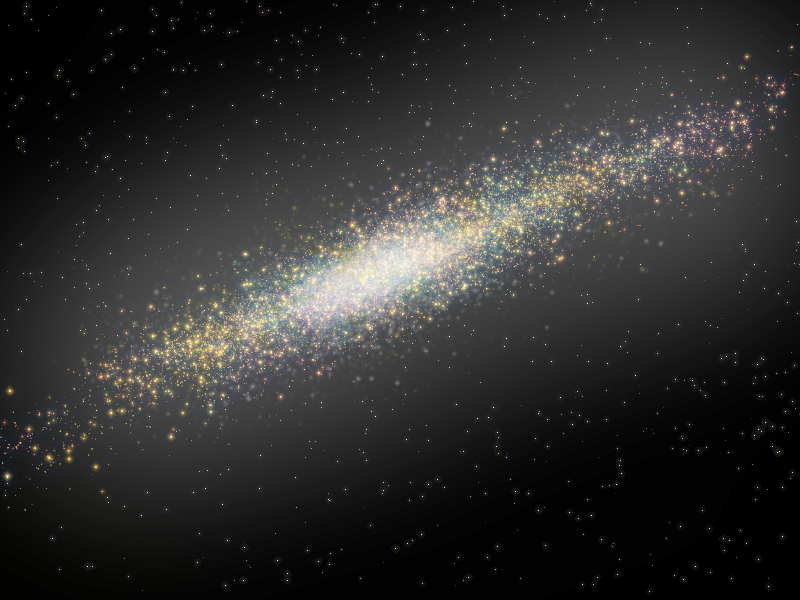
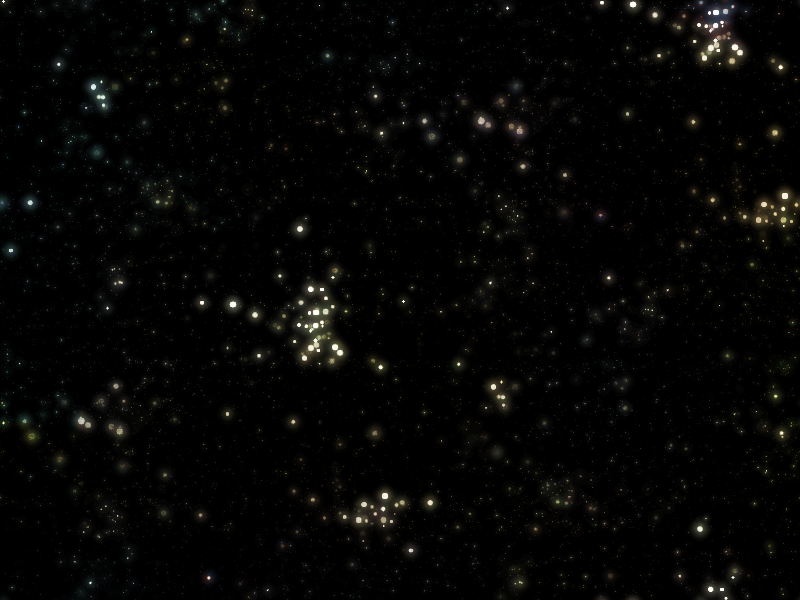
Changed the background image to one that can loop smoothly

diff --git a/Web_Pages/Space_Invaders_Game/src/scenes/main.ts b/Web_Pages/Space_Invaders_Game/src/scenes/main.ts
@@ -34,6 +34,7 @@ export class MainScene extends Phaser.Scene {
 
     // This is the preload function in phaser that loads the assets
     preload() {
+        // Load images
         this.load.setBaseURL("/assets");
         this.load.image(AssetType.Starfield, "/images/starfield.png");
         this.load.image(AssetType.Bullet, "/images/bullet.png");
@@ -47,7 +48,7 @@ export class MainScene extends Phaser.Scene {
             frameWidth: 128,
             frameHeight: 128,
         });
-
+        // Load audio
         this.sound.volume = 0.25;
         this.load.audio(SoundType.Shoot, "/audio/boop.wav");
         this.load.audio(SoundType.Kaboom, "/audio/boom.wav");
@@ -64,6 +65,7 @@ export class MainScene extends Phaser.Scene {
         this.assetManager = new AssetManager(this);
         this.animationFactory = new AnimationFactory(this);
         this.cursors = this.input.keyboard.createCursorKeys();
+        // Setting space key to be the fire key
         this.fireKey = this.input.keyboard.addKey(
             Phaser.Input.Keyboard.KeyCodes.SPACE
         );
@@ -72,6 +74,7 @@ export class MainScene extends Phaser.Scene {
         this.scoreManager = new ScoreManager(this);
         
 
+        // Set space key top restart after win or game over
         this.fireKey.on("down", () => {
             switch (this.state) {
                 case GameState.Win:
@@ -80,6 +83,7 @@ export class MainScene extends Phaser.Scene {
                     break;
             }
         })
+        // Add background music on a loop
         var music = this.sound.add(SoundType.Song);
         music.setLoop(true);
         music.play();
@@ -89,11 +93,16 @@ export class MainScene extends Phaser.Scene {
 
     // This function updates the game based on bullets
     update() {
+        // Make the background move
+        this.starfield.tilePositionY -= 0.5;
+
+        // update to keep  the aliens firing at the hero
         this._shipKeyboardHandler();
         if (this.time.now > this.firingTimer) {
             this._enemyFires();
         }
 
+        // Check for bullet collikson w/ an alien
         this.physics.overlap(
             this.assetManager.bullets,
             this.alienManager.aliens,
@@ -101,6 +110,7 @@ export class MainScene extends Phaser.Scene {
             null,
             this
         );
+        // Check for an enemy bullet overlap w/ the player
         this.physics.overlap(
             this.assetManager.enemyBullets,
             this.player,
@@ -120,6 +130,8 @@ export class MainScene extends Phaser.Scene {
             playerBody.setVelocityX(200);
         }
 
+
+        // check for if the space key is pressed. If so, fire a bullet
         if (this.fireKey.isDown) {
             this._fireBullet();
         }
@@ -147,6 +159,7 @@ export class MainScene extends Phaser.Scene {
             live.setActive(false).setVisible(false);
         }
 
+        // Explosion on collision and change game state if player is out of lives
         explosion.setPosition(this.player.x, this.player.y);
         explosion.play(AnimationType.Kaboom);
         this.sound.play(SoundType.PlayerKaboom)
@@ -165,6 +178,8 @@ export class MainScene extends Phaser.Scene {
         }
         let enemyBullet: EnemyBullet = this.assetManager.enemyBullets.get();
         let randomEnemy = this.alienManager.getRandomAliveEnemy();
+
+        // Check to fire an enemy bullet every two seconds and aim it towards the player ship
         if (enemyBullet && randomEnemy) {
             enemyBullet.setPosition(randomEnemy.x, randomEnemy.y);
             this.physics.moveToObject(enemyBullet, this.player, 120);
@@ -172,12 +187,12 @@ export class MainScene extends Phaser.Scene {
         }
     }
 
-    // This function handles when the hero ship fires a bullet
+    // This function handles when the player ship fires, limits to a rate of one bullet per 200ms
     private _fireBullet() {
         if (!this.player.active) {
             return;
         }
-
+        // Checks to fire the a bullet every two seconds
         if (this.time.now > this.bulletTime) {
             let bullet: Bullet = this.assetManager.bullets.get();
             if (bullet) {

diff --git a/Web_Pages/Space_Invaders_Game/src/interface/manager/asset-manager.ts b/Web_Pages/Space_Invaders_Game/src/interface/manager/asset-manager.ts
@@ -4,6 +4,8 @@ import { Kaboom } from "../kaboom";
 
 // Class that handles creation of new assets when the game is in play (bullets and explosions) and when the game is over
 export class AssetManager {
+
+    // assets controlled by this class
     bullets: Phaser.Physics.Arcade.Group;
     enemyBullets: Phaser.Physics.Arcade.Group;
     explosions: Phaser.Physics.Arcade.Group;
@@ -14,16 +16,19 @@ export class AssetManager {
         this.explosions = this._createExplosions();
     }
 
+    // clears bullets when the game is ove
     gameOver() {
         this.enemyBullets.clear(true, true)
         this.bullets.clear(true, true)
     }
 
+    // resets the assets when the game is restarted
     reset() {
         this._createEnemyBullets();
         this._createBullets();
     }
 
+    // defines enemies' bullets
     private _createEnemyBullets(): Phaser.Physics.Arcade.Group {
         let enemyBullets = this._scene.physics.add.group({
             max: 0,
@@ -34,6 +39,7 @@ export class AssetManager {
         return enemyBullets;
     }
 
+    // defines the player's bullets
     private _createBullets(): Phaser.Physics.Arcade.Group {
         let bullets = this._scene.physics.add.group({
             max: 0,
@@ -44,6 +50,7 @@ export class AssetManager {
         return bullets;
     }
 
+    // defines the explosions
     private _createExplosions(): Phaser.Physics.Arcade.Group {
         let explosions = this._scene.physics.add.group({
             max: 0,

diff --git a/Web_Pages/Space_Invaders_Game/src/interface/manager/alien-manager.ts b/Web_Pages/Space_Invaders_Game/src/interface/manager/alien-manager.ts
@@ -19,18 +19,21 @@ export class AlienManager {
         this._animate();
     }
 
+    // Grabs a random alive enemy to shoot a bullet when called
     getRandomAliveEnemy(): Alien {
         let random = Phaser.Math.RND.integerInRange(1, this.aliens.children.size);
         let aliens = this.aliens.children.getArray() as Alien[];
         return aliens[random];
     }
 
+    // Call on game reset
     reset() {
         this._sortAliens();
         this._animate();
     }
 
     private _sortAliens() {
+        // Builds 40 enemies in a 4x10 grid
         let ORIGIN_X = 100;
         let ORIGIN_Y = 100;
         this.aliens.clear(true, true);
@@ -44,6 +47,7 @@ export class AlienManager {
         }
     }
 
+    // animation of the aliens flying
     private _animate() {
         this.aliens.children.iterate((c: Alien) => {
             this._scene.tweens.add({

diff --git a/Web_Pages/Space_Invaders_Game/src/interface/factory/animation-factory.ts b/Web_Pages/Space_Invaders_Game/src/interface/factory/animation-factory.ts
@@ -12,6 +12,7 @@ export class AnimationFactory {
     }
 
     private _init() {
+        // Generates the fly animation of the aliens from the Spritesheet frames
         this._scene.anims.create({
             key: AnimationType.Fly,
             frames: this._scene.anims.generateFrameNumbers(AssetType.Alien, {
@@ -22,6 +23,7 @@ export class AnimationFactory {
             repeat: -1
         });
 
+        // Generates the explosion animation from the spritesheet frames
         this._scene.anims.create({
             key: AnimationType.Kaboom,
             frames: this._scene.anims.generateFrameNumbers(AssetType.Kaboom, {

diff --git a/Web_Pages/Space_Invaders_Game/src/interface/kaboom.ts b/Web_Pages/Space_Invaders_Game/src/interface/kaboom.ts
@@ -1,6 +1,6 @@
 import { AssetType } from "./assets";
 
-// This class defines the explosion
+// This class defines the kaboom class as the explosion asset
 export class Kaboom extends Phaser.Physics.Arcade.Sprite {
     constructor(scene: Phaser.Scene) {
         super(scene, 0, 0, AssetType.Kaboom);

diff --git a/Web_Pages/Space_Invaders_Game/src/interface/alien.ts b/Web_Pages/Space_Invaders_Game/src/interface/alien.ts
@@ -8,6 +8,7 @@ export class Alien extends Phaser.Physics.Arcade.Sprite {
     super(scene, x, y, AssetType.Alien)
   }
 
+  // function when alien is killed, play explosion, then remove the asset from the screen
   kill(explosion: Kaboom) {
     if (explosion) {
       explosion.setX(this.x);

diff --git a/Web_Pages/Space_Invaders_Game/src/interface/bullet.ts b/Web_Pages/Space_Invaders_Game/src/interface/bullet.ts
@@ -6,6 +6,7 @@ export class Bullet extends Phaser.Physics.Arcade.Sprite {
         super(scene, 0, 0, AssetType.Bullet);
     }
 
+    // Defines when the player shoots
     shoot(x: number, y: number) {
         this.scene.sound.play(SoundType.Shoot)
         this.setPosition(x, y);

diff --git a/Web_Pages/Space_Invaders_Game/src/interface/assets.ts b/Web_Pages/Space_Invaders_Game/src/interface/assets.ts
@@ -1,8 +1,8 @@
 // enum for the different assets in the game
 export enum AssetType {
-    Bullet = "bullet",
     EnemyBullet = "enemyBullet",
     Alien = "alien",
+    Bullet = "bullet",
     Ship = "ship",
     Kaboom = "kaboom",
     Starfield = "starfield",
